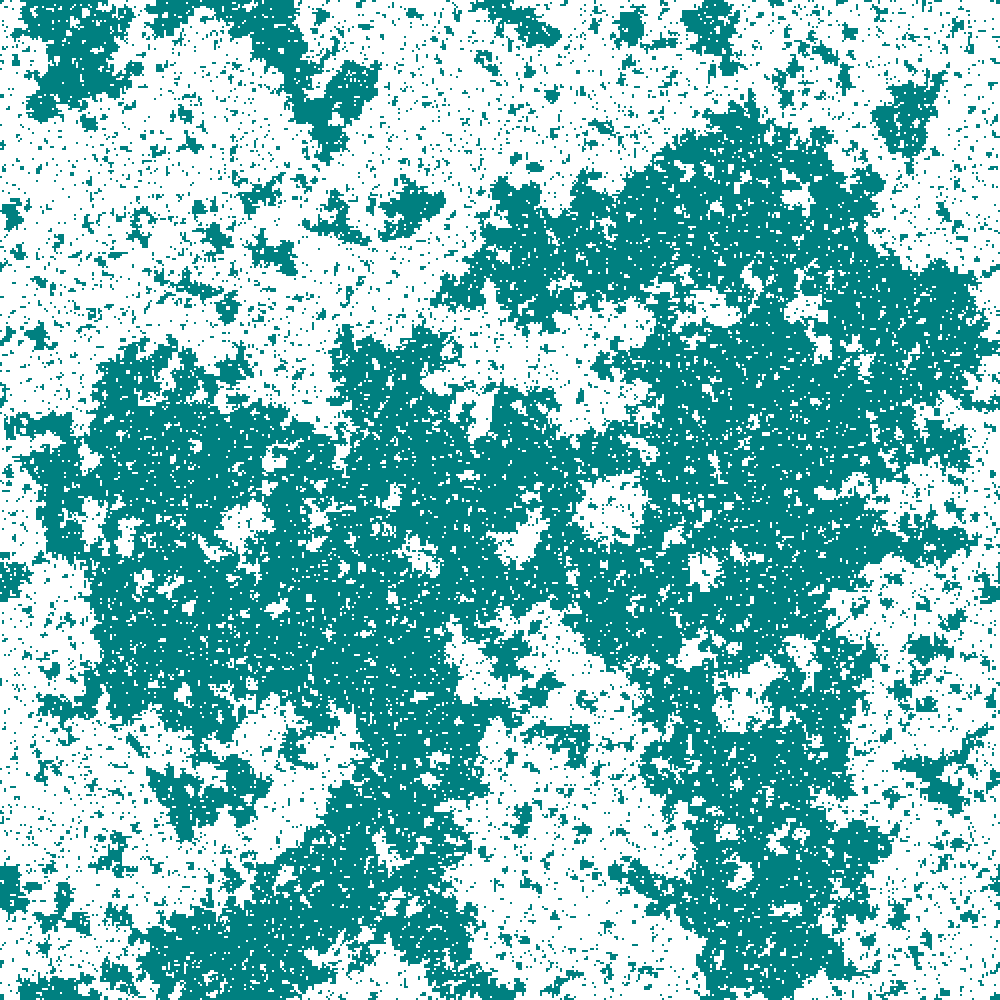
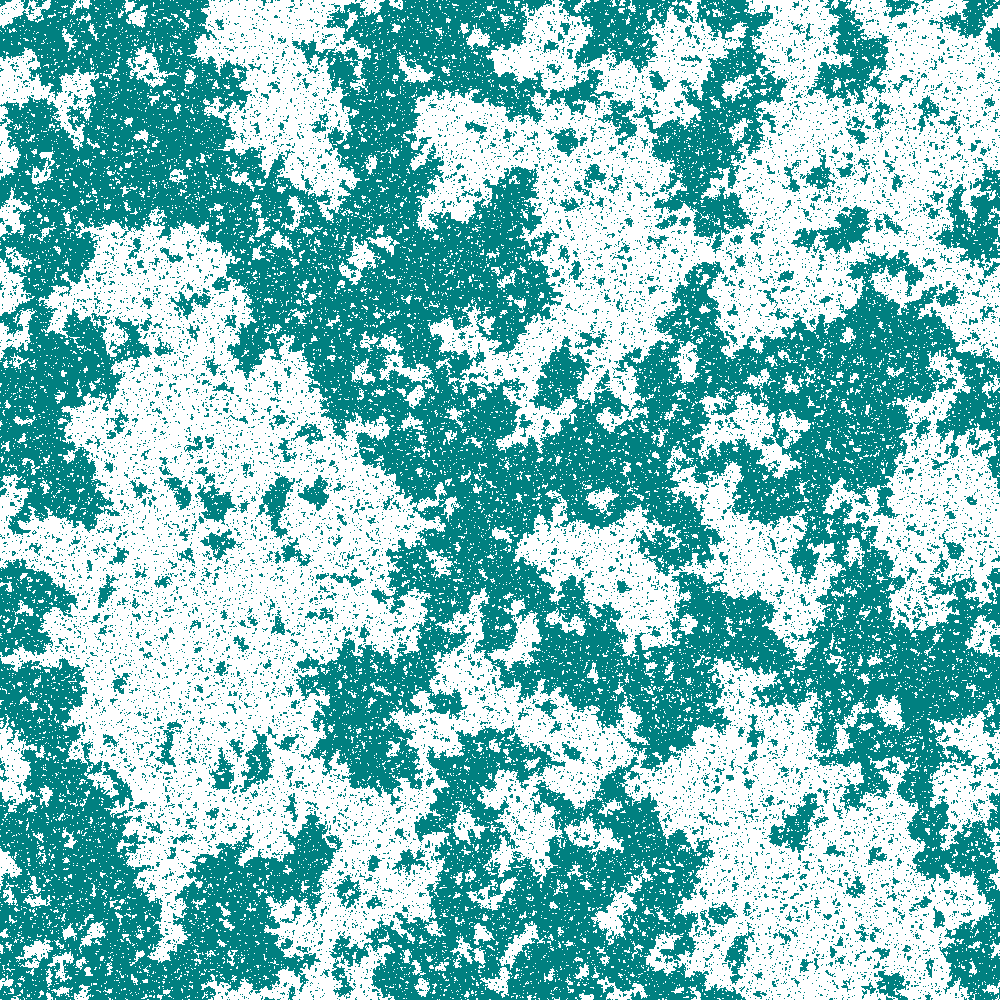
Incorporate xoshiro256 and use builtin funcs.

diff --git a/src/main.rs b/src/main.rs
@@ -1,6 +1,9 @@
-use libm::{exp, log, sqrt};
+//use libm::{exp, log, sqrt};
 use plotters::prelude::*;
 use rand::prelude::*;
+use rand_xoshiro::rand_core::SeedableRng;
+use rand_xoshiro::Xoshiro256Plus;
+use std::f64::consts::E;
 use std::time::Instant;
 
 /*
@@ -14,7 +17,7 @@ for anyone iterested in testing for the comparison.
 */
 
 fn main() {
-    let t = 2. / log(1. + sqrt(2.)); //The critical temperature of a 2D Ising model.
+    let t = 2. / (1. + 2f64.sqrt()).log(E); //The critical temperature of a 2D Ising model.
 
     run(true, t);
 }
@@ -25,7 +28,7 @@ in principle, but I will use 1 for the classic ferromagnetic case.
 */
 const J: i8 = 1;
 const STEPS: usize = 1000;
-const SIDE: usize = 500; // Making a default for square arrays
+const SIDE: usize = 1000; // Making a default for square arrays
 const NPIXELS: u32 = 1000; // Used for giving the size of a side of the PNG.
 const NROWS: usize = SIDE;
 const NCOLUMNS: usize = SIDE;
@@ -42,7 +45,7 @@ fn run(order: bool, t: f64) {
     randomizing the initial state when order is passed as true.
     */
     let mut arr = [0i8; LEN];
-    let mut rng = thread_rng();
+    let mut rng = Xoshiro256Plus::from_entropy();
 
     let beta = 1. / t; // beta is a convenience variable for inverse Temp.
 
@@ -52,7 +55,7 @@ fn run(order: bool, t: f64) {
     */
     if order == true {
         for x in &mut arr {
-            if *&rng.gen::<f32>() > 0.5 {
+            if *&rng.gen::<f64>() > 0.5 {
                 *x = 1i8
             } else {
                 *x = -1i8
@@ -71,7 +74,7 @@ fn run(order: bool, t: f64) {
     let mut probs = [0f64; 9];
     let mut inc: f64 = -4.0;
     for prob in &mut probs {
-        *prob = exp(-2. * beta * inc);
+        *prob = (-2. * beta * inc).exp();
         inc += 1.;
     }
     // Show the image before the interations for comparison.
